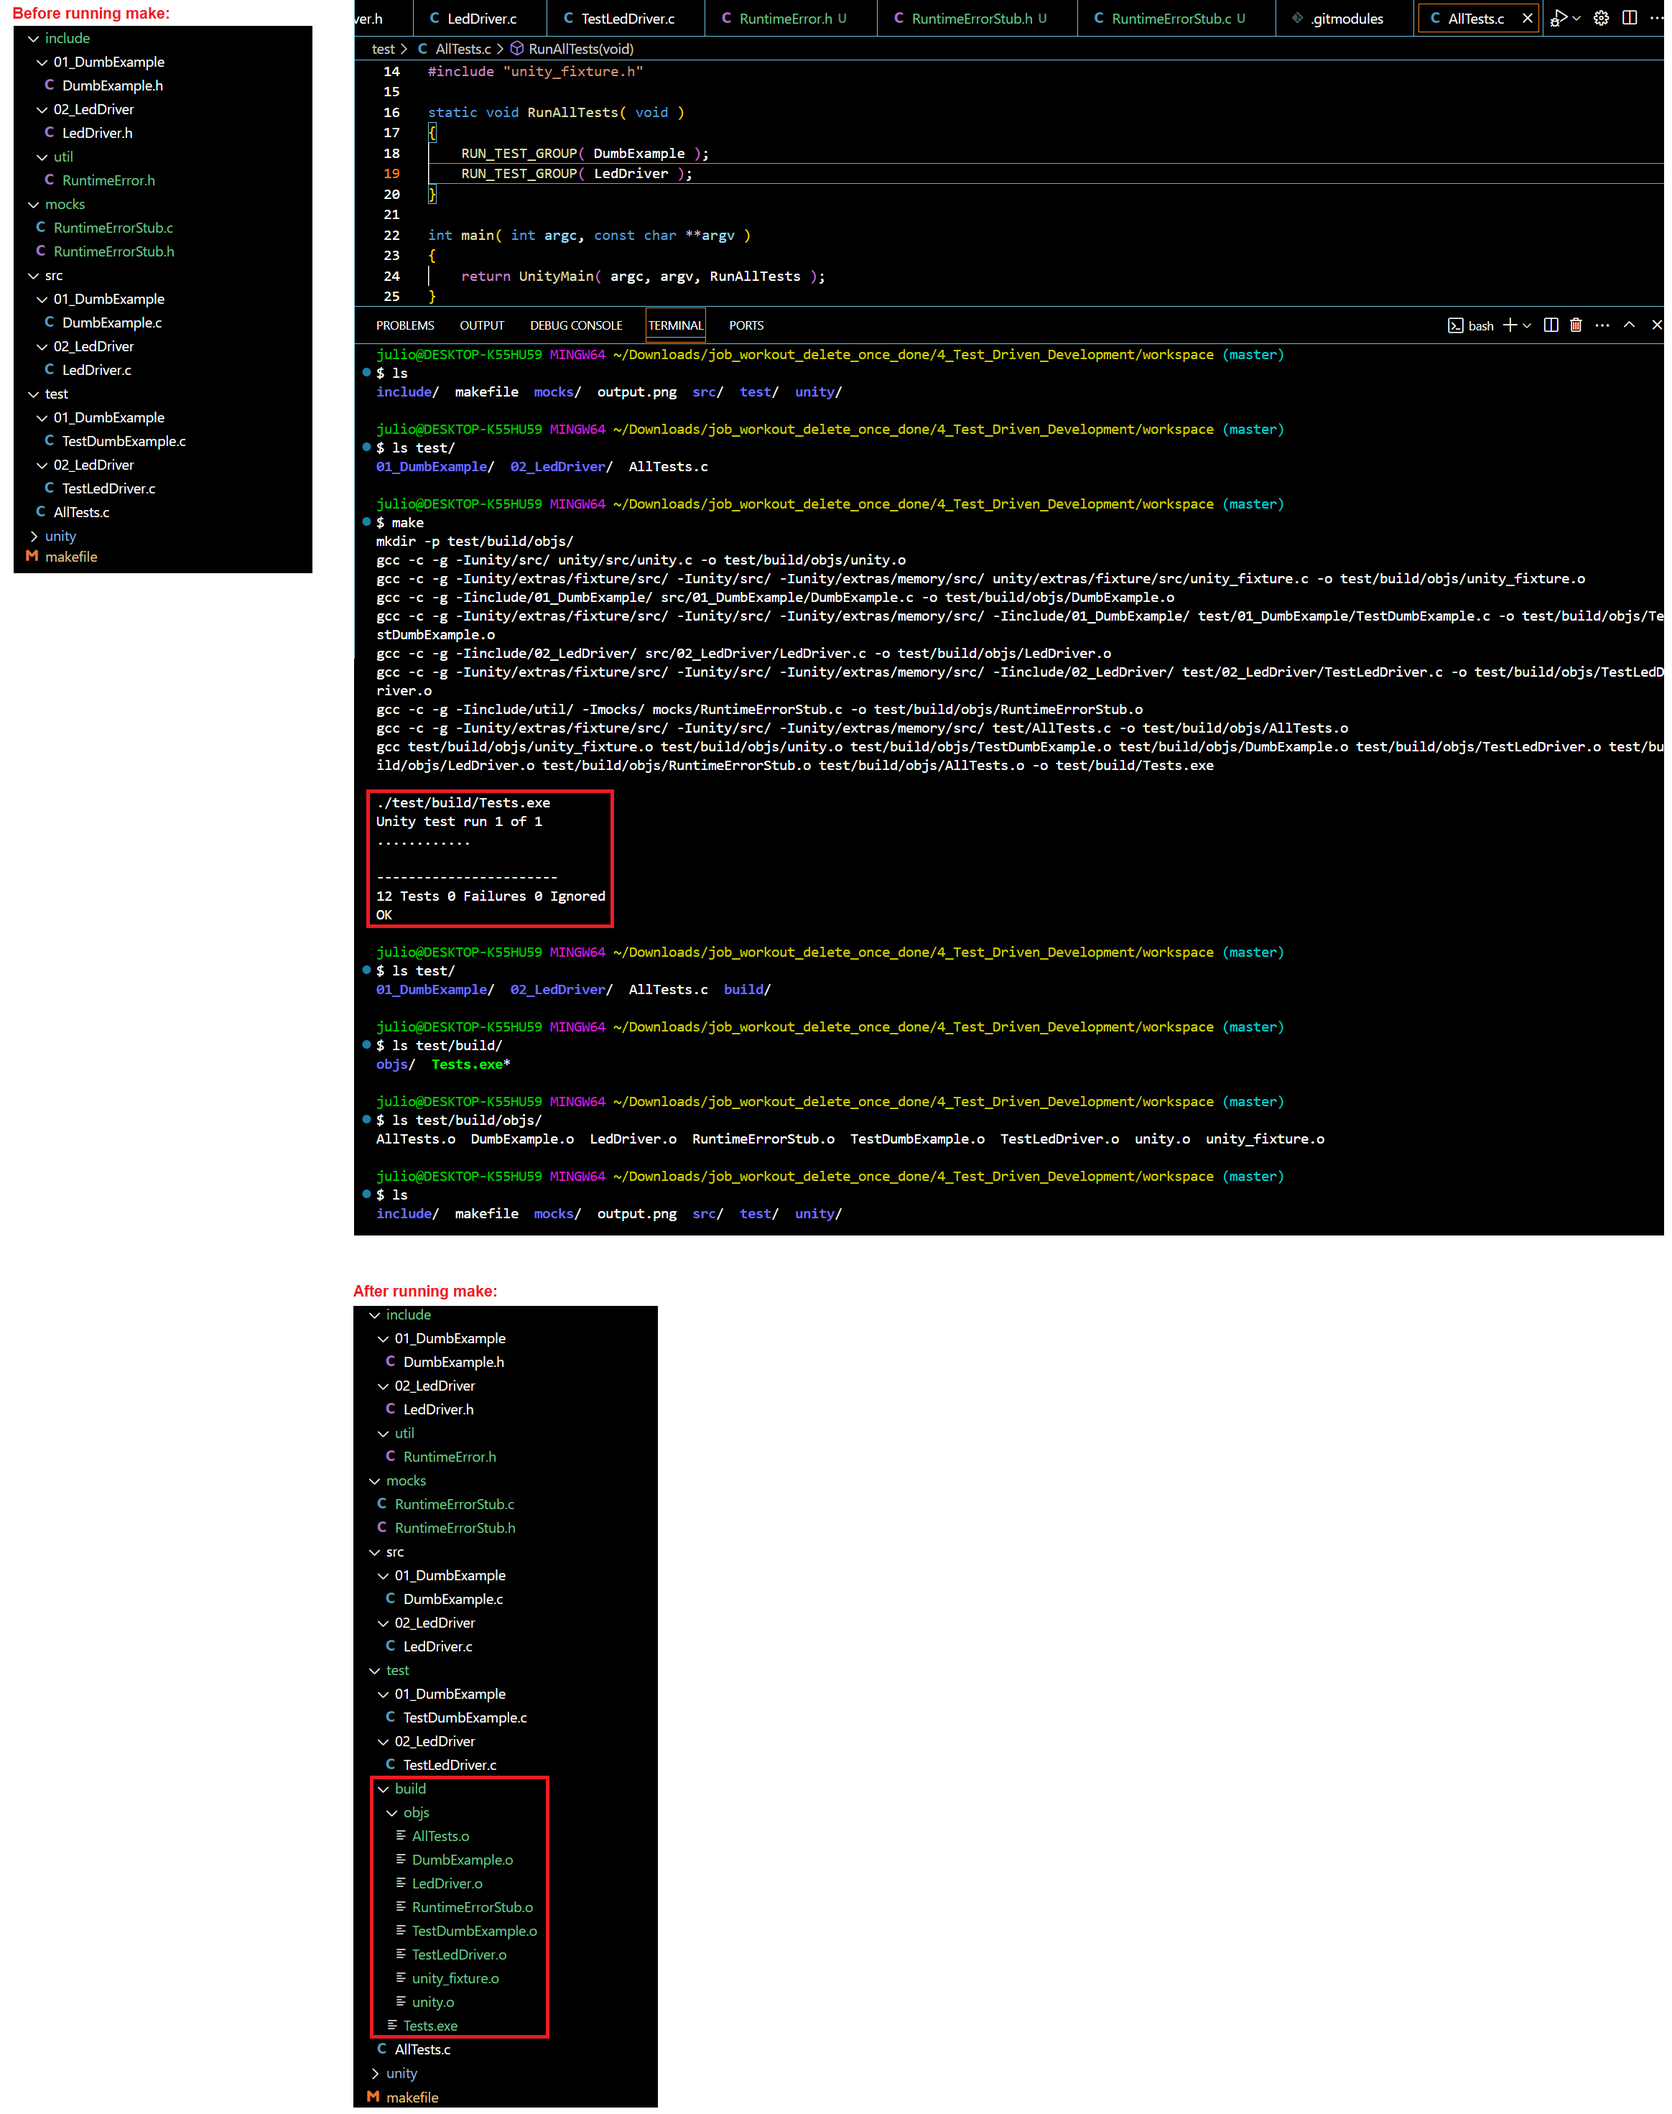
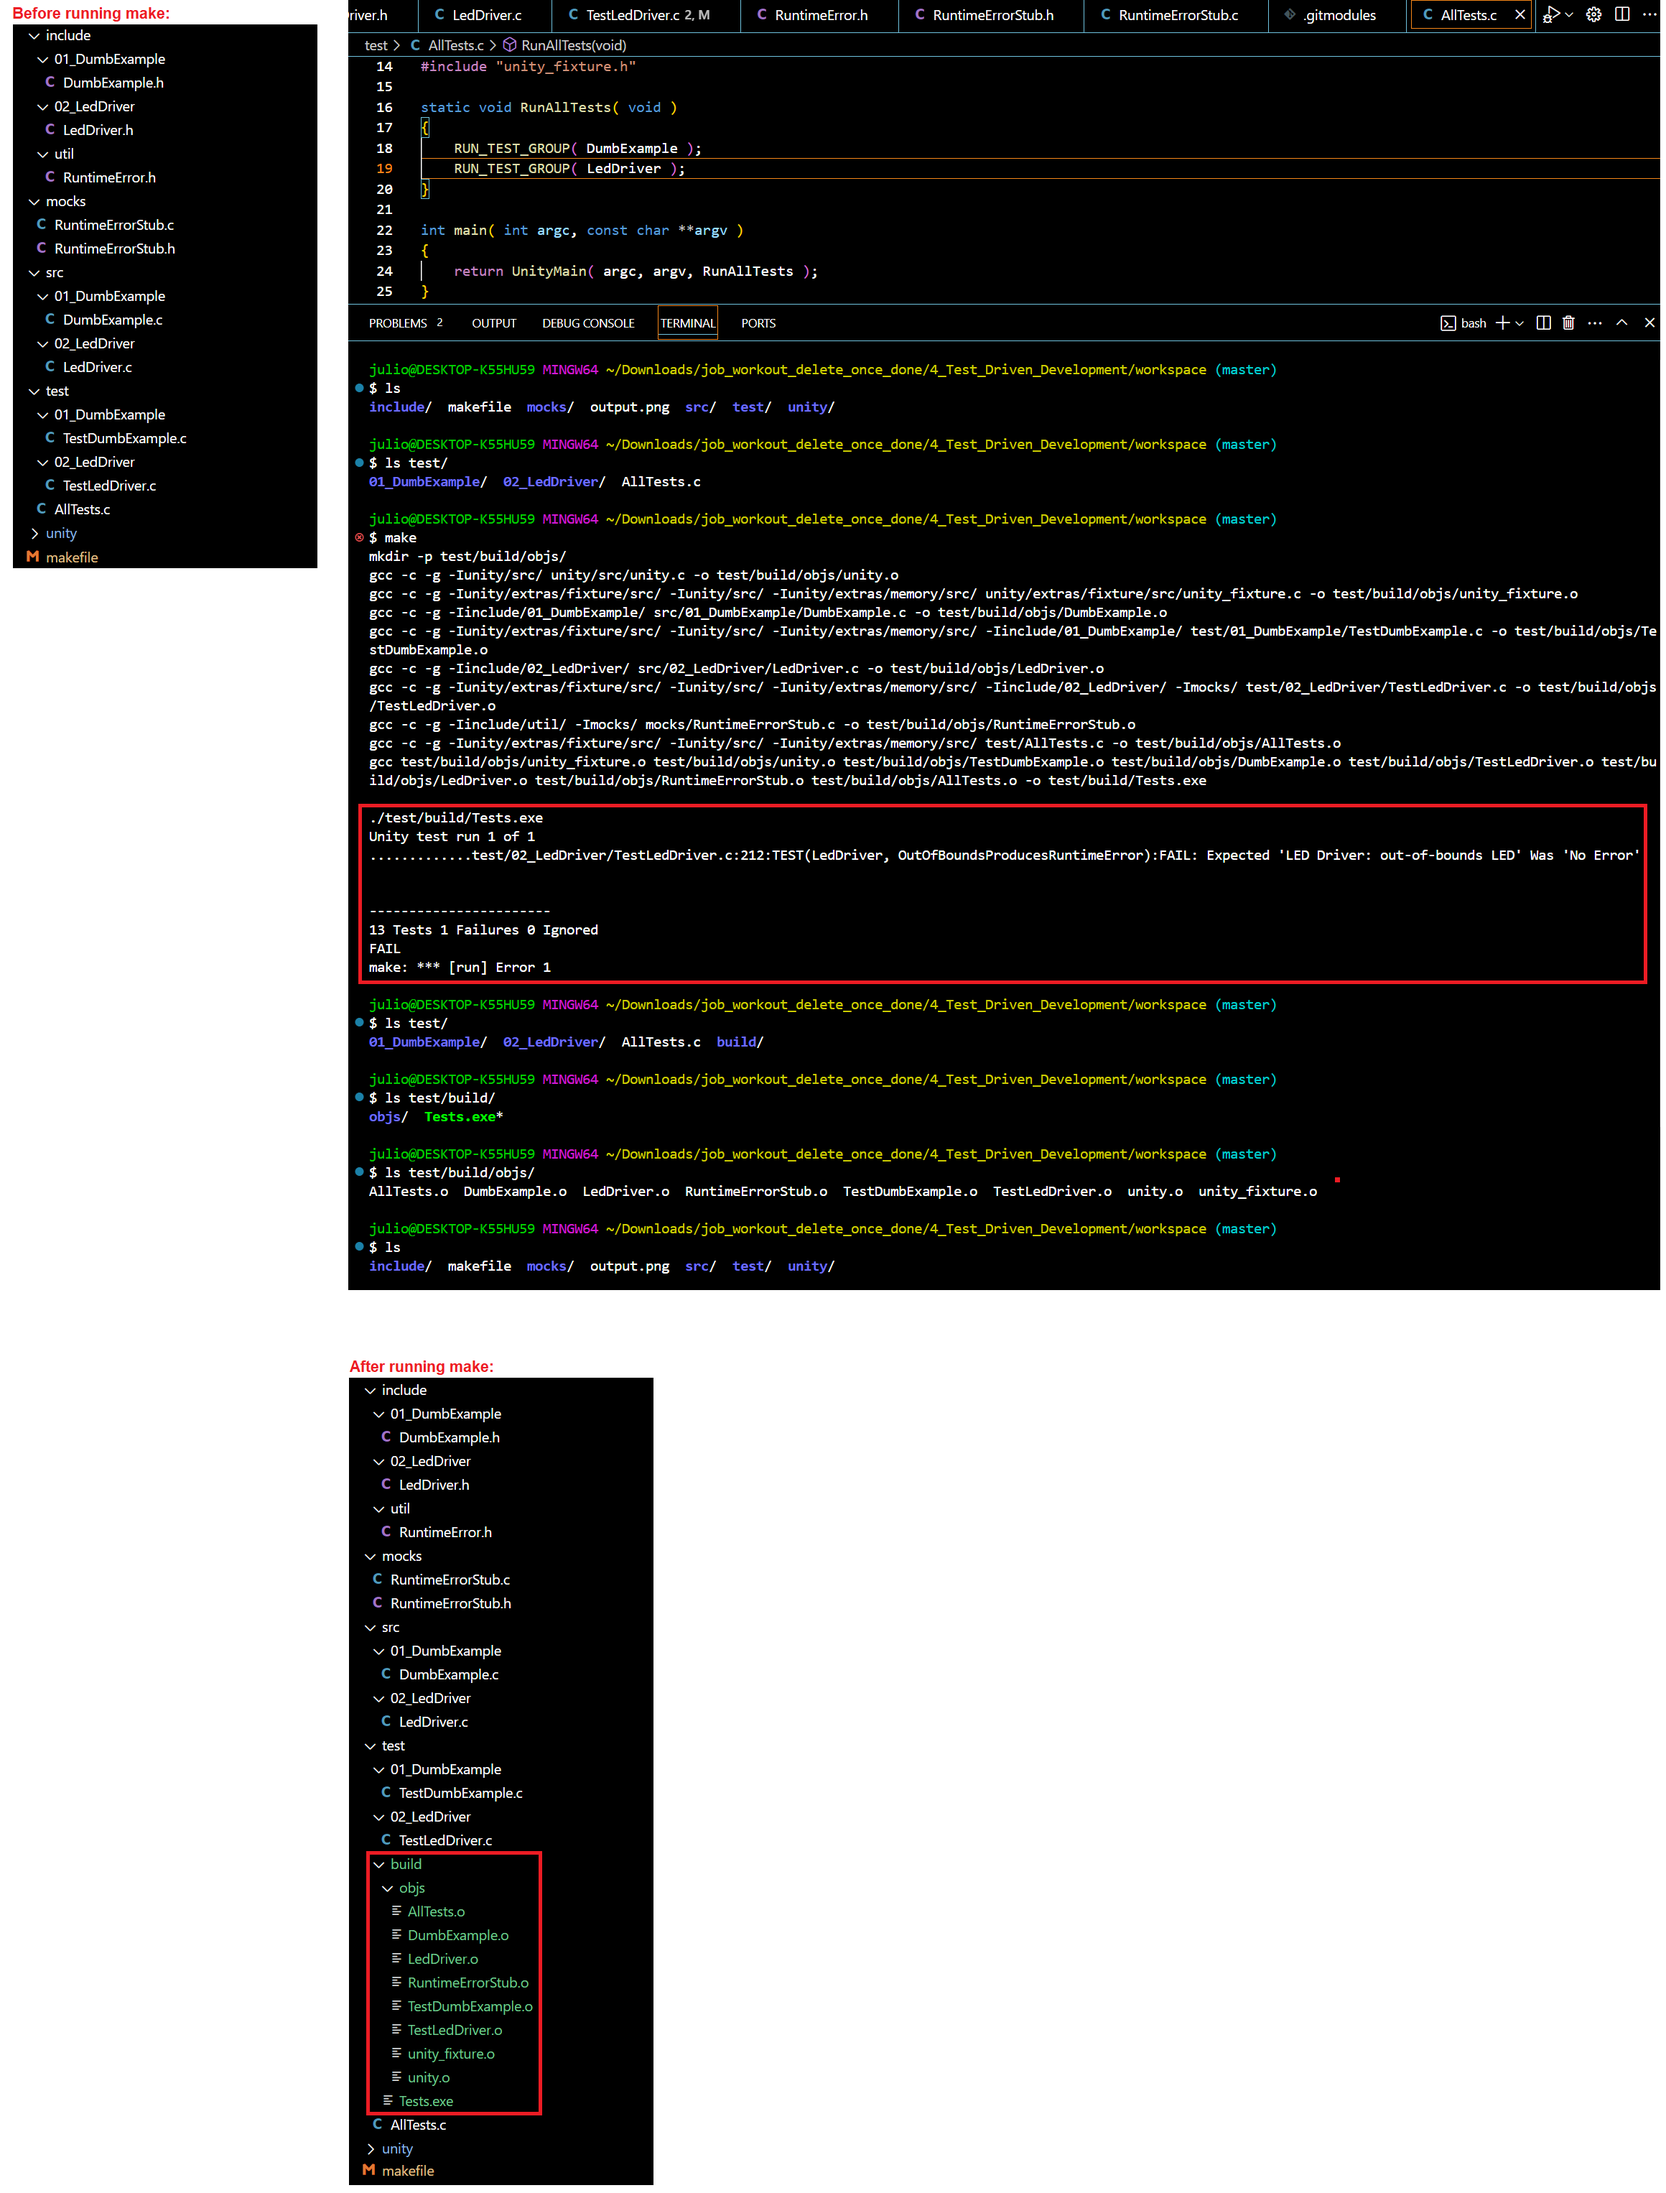
Add LedDriver (failing) OutOfBoundsProducesRuntimeError test for LedDriver_TurnOn()

Changed region(s): [[0.0, 0.0, 1.0, 1.0], [0.869, 0.1237, 0.9621, 0.1546]]

diff --git a/test/02_LedDriver/TestLedDriver.c b/test/02_LedDriver/TestLedDriver.c
@@ -24,6 +24,7 @@
 
 #include "unity_fixture.h"
 #include "LedDriver.h"
+#include "RuntimeErrorStub.h"
 
 /* address of the 16 LEDs */
 static uint16_t virtualLeds;
@@ -194,6 +195,26 @@ TEST( LedDriver, OutOfBoundsTurnOffDoesNoHarm )
    TEST_ASSERT_EQUAL_HEX16( 0xffff, virtualLeds );
 }
 
+/* TEST 11 */
+TEST( LedDriver, OutOfBoundsProducesRuntimeError )
+{
+   const char *errorMessage;
+   int errorParameter;
+
+   /* attempt to turn off an out-of-bounds LED */
+   LedDriver_TurnOn( -2 );
+
+   /* get the last runtime error message and error parameter */
+   errorMessage = RuntimeErrorStub_GetLastError();
+   errorParameter = RuntimeErrorStub_GetLastParameter();
+
+   /* check the error message is "LED Driver: out-of-bounds LED" */
+   TEST_ASSERT_EQUAL_STRING( "LED Driver: out-of-bounds LED", errorMessage );
+
+   /* check the last error parameter is the same as the out-of-bounds LED number (-2) */
+   TEST_ASSERT_EQUAL( -2, errorParameter );
+}
+
 TEST_GROUP_RUNNER( LedDriver )
 {
    /* TEST 1 */
@@ -225,4 +246,7 @@ TEST_GROUP_RUNNER( LedDriver )
 
    /* TEST 10 */
    RUN_TEST_CASE( LedDriver, OutOfBoundsTurnOffDoesNoHarm );
+
+   /* TEST 11 */
+   RUN_TEST_CASE( LedDriver, OutOfBoundsProducesRuntimeError );
 }
